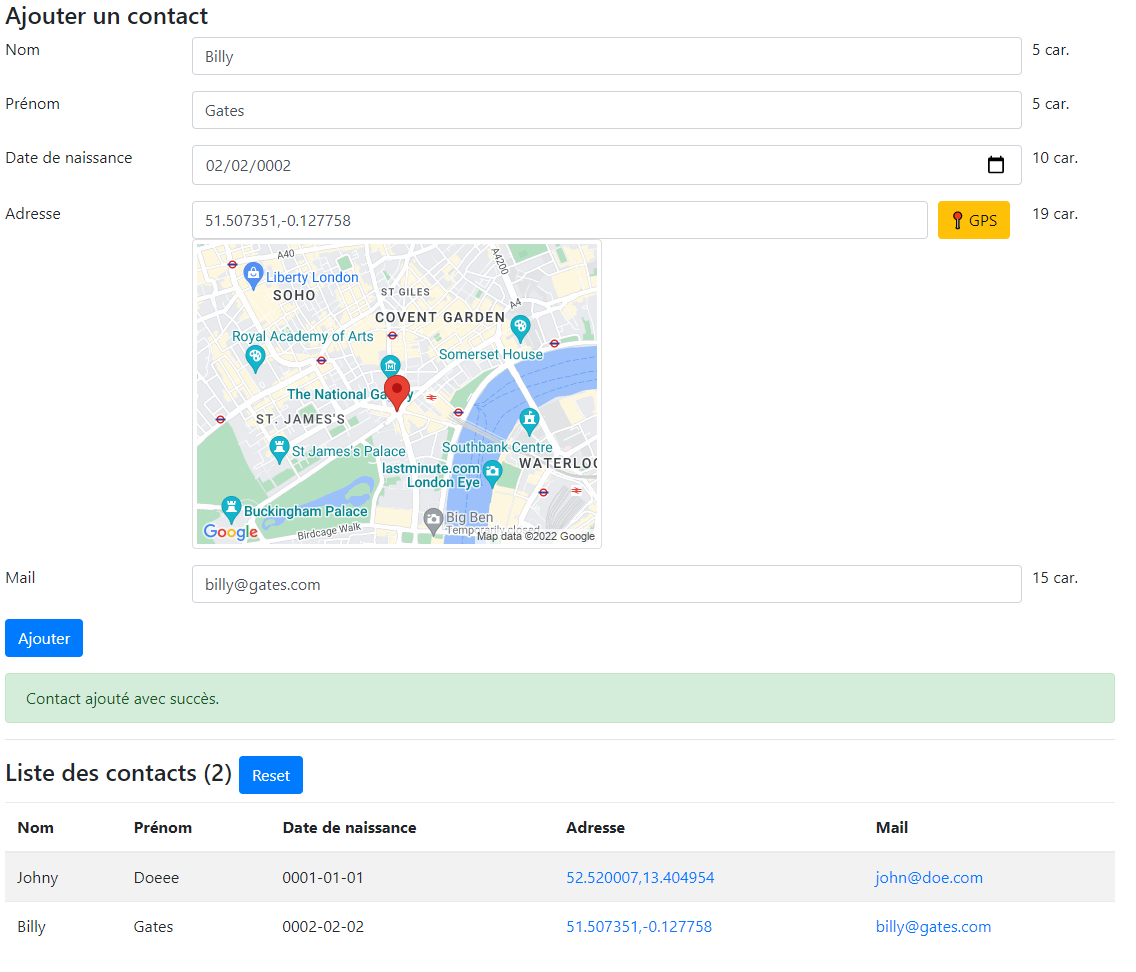
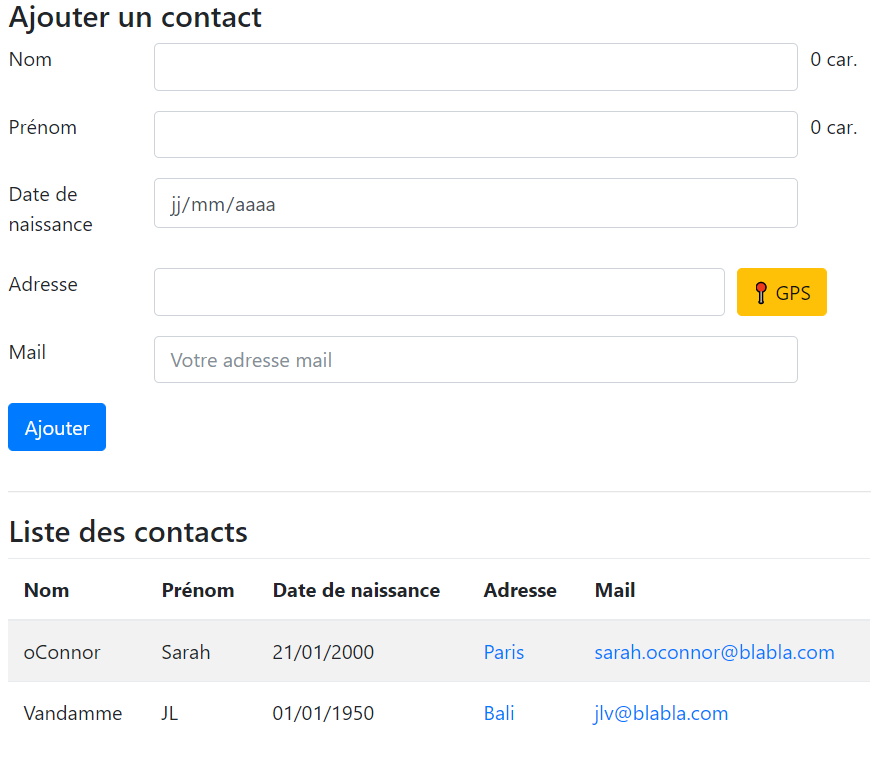
Add files via upload

diff --git a/tp4/index.html b/tp4/index.html
@@ -52,15 +52,15 @@
       <div class="row mb-3">
         <label for="Date" class="col-sm-2 col-form-label">Date de naissance</label>
         <div class="col-sm-10">
-          <input type="date" class="form-control" id="Date" placeholder="JJ/MM/AAAA" name="Date"/>
-            
+          <input type="date" class="form-control" id="Date" placeholder="JJ/MM/AAAA" name="Date"
+            />
         </div>
       </div>
       <div class="row mb-3">
-        <label for="Adresse" class="col-sm-2 col-form-label">Adresse </label>
+        <label for="Adresse" class="col-sm-2 col-form-label">Adresse</label>
         <div class="col-sm-10">
-          <input type="text" class="form-control" id="Adresse" placeholder="Entrez l'adresse" name="Adresse" onkeypress="calcNbChar(this.id)" />
-             
+          <input type="text" class="form-control" id="Adresse" placeholder="Entrez l'adresse" name="Adresse"
+             />
           <button type="button" class="btn btn-primary" id="button1" onclick="getLocation()">GPS</button>
           <div id="map"></div>
 
@@ -71,7 +71,7 @@
       <div class="row mb-3">
         <label for="email" class="col-sm-2 col-form-label">Email</label>
         <div class="col-sm-10">
-          <input type="email" class="form-control" id="email" name="email" onkeypress="calcNbChar(this.id)" />
+          <input type="email" class="form-control" id="email" name="email" />
         </div>
       </div>
       <button type="button" class=" btn btn-primary" onclick="test()"> Validez</button>

diff --git a/tp4/readme.md b/tp4/readme.md
@@ -21,19 +21,13 @@ Ajout de fonctionnalités HTML5 au formulaire
 
 # Table des matières
 
-- [Table des matières](#table-des-matières)
+ - [Table des matières](#table-des-matières)
   - [1. Objectif du TP](#1-objectif-du-tp)
   - [2. Plateforme de dév (idem que le TP3)](#2-plateforme-de-dév-idem-que-le-tp3)
   - [3. Geolocalisation HTML5](#3-geolocalisation-html5)
-    - [1. JavaScript **gps.js**](#1-javascript-gpsjs)
-    - [2. Ajouter un bouton à coté du champ de saisie de l’adresse](#2-ajouter-un-bouton-à-coté-du-champ-de-saisie-de-ladresse)
-    - [3. Mapping du bouton HTML et de la fonction javaScript](#3-mapping-du-bouton-html-et-de-la-fonction-javascript)
-    - [4. 💡 Simuler d'autres coordonées GPS depuis l'outil de dev. de Chrome](#4--simuler-dautres-coordonées-gps-depuis-loutil-de-dev-de-chrome)
   - [4. Afficher le nombre de caractère saisie](#4-afficher-le-nombre-de-caractère-saisie)
-  - [5. Ajouter le contact à un tableau JSON (store.js)](#5-ajouter-le-contact-à-un-tableau-json-storejs)
+  - [5. ajouter le contact à un tableau JSON (store.js)](#5-ajouter-le-contact-à-un-tableau-json-storejs)
   - [6. Afficher la liste des contacts dans un tableau HTML](#6-afficher-la-liste-des-contacts-dans-un-tableau-html)
-
-
 ## 1. Objectif du TP
 
 - HTML5: Commencer à utiliser les capacités avancées (géolocalisation)
@@ -79,9 +73,8 @@ Exemple avec une image centrée sur Paris: <a href="https://maps.googleapis.com/
 - L'API Géolocalisation HTML5 est utilisée pour obtenir la position géographique d'un utilisateur (si il utilise un navigateur récent)
 - Documentation et fonction JS de géolocalisation disponibles ici : https://www.w3schools.com/html/html5_geolocation.asp
 
-### 1. JavaScript **gps.js** 
+1. Dans un fichier **gps.js**, copier le code ci-dessous:
 
-Dans un fichier **gps.js**, copier le code ci-dessous:
 ```javascript
 // demande de la localisation à l'utilisateur
 function getLocation() {
@@ -124,29 +117,15 @@ function showError(error) {
 }
 ```
 
-### 2. Ajouter un bouton à coté du champ de saisie de l’adresse
+2. Ajouter un bouton à coté du champ de saisie de l’adresse
 
-### 3. Mapping du bouton HTML et de la fonction javaScript
-Dans votre script **form-validation.js** intercepter le click sur ce bouton et utiliser la fonction getLocation() pour demander la géolocalisation à l’utilisateur
+3. Dans votre script **form-validation.js** intercepter le click sur ce bouton et utiliser la fonction getLocation() pour demander la géolocalisation à l’utilisateur
 
 La géolocalisation vous donnera la **latitude** et la **longitude** de l’utilisateur.
 
 Afficher une image (dans le code JS ci-dessus ça s'affiche dans une DIV avec id="map") de Google Maps centrée sur ces coordonnées GPS (documentation de l’API google maps)
 
 URL de l’image : https://maps.googleapis.com/maps/api/staticmap?markers=latitude,longitude&zoom=14&size=400x300&scale=2&key=AIzaSyAkmvI9DazzG9p77IShsz_Di7-5Qn7zkcg
-
-
-### 4. 💡 Simuler d'autres coordonées GPS depuis l'outil de dev. de Chrome 
-Dans l'outil de developpement de Google Chrome, il est possible de surcharger la localisation de l'utilisateur. 
-
-Pour ce faire :
--  Aller dans l'outil de dévelopmment : touche **F12** ou **⁝**(Menu de Chrome)/**Plus d'outils**/**Outils de developpement**
--  Cliquez sur les "**...**", choisir **More Tools** puis **Sensors**
--  <img src="sensors.jpg" alt="sensors">
--  Vous aurez accés à l'onglet "Sensors", dans la section **Location**, vous pourrez choisir l'une des villes préselectionnée (par exemple **Mountain View**)
--  <img src="mountain.jpg" alt="mountain view">
--  Cliquez sur le bouton "GPS" de votre page web pour actualiser et vérifier les coordonnées lat/lon et l'image Google Maps de votre formulaire.
-
 
 ## 4. Afficher le nombre de caractère saisie
 
@@ -212,16 +191,14 @@ var prenom = localStorage.getItem("lastname");
 * Documentation : http://www.w3schools.com/html/html5_webstorage.asp
 -->
 
-## 5. Ajouter le contact à un tableau JSON (store.js)
+## 5. ajouter le contact à un tableau JSON (store.js)
 
 1. créer un fichier **store.js**
 
    - Ce script stockera le contact dans une liste JSON
-   - Cette liste sera sauvegardé dans une base de données local (localStorage https://developer.mozilla.org/fr/docs/Web/API/Window/localStorage)
    - Les méthodes disponibles seront:
      - Ajout d'un contact à la liste **contactStore.add(\_name, \_firsname, \_date, \_adress, \_mail);**
      - Listing des contacts **contactStore.getList();**
-     - Remise à zéro de la liste **contactStore.reset();**
 
 - Code à reprendre:
 
@@ -235,8 +212,7 @@ Pour récuper la liste:    contactStore.getList();
 */
 var contactStore = (function () {
   // variable privée
-  let contactListString = localStorage.getItem('contactList')
-  var contactList = contactListString ? JSON.parse(contactListString) : [];
+  var contactList = [];
 
   // Expose these functions via an interface while hiding
   // the implementation of the module within the function() block
@@ -252,16 +228,6 @@ var contactStore = (function () {
       };
       // ajout du contact à la liste
       contactList.push(contact);
-
-      // persistence de la liste dans une base de données local du navigateur web
-      // https://developer.mozilla.org/fr/docs/Web/API/Window/localStorage
-      localStorage.setItem('contactList', JSON.stringify(contactList));
-
-      return contactList;
-    },
-    reset: function () {
-     
-      localStorage.removeItem('contactList');
 
       return contactList;
     },
@@ -279,31 +245,25 @@ var contactStore = (function () {
 
 ![Texte alternatif](tp4.PNG "texte pour le titre, facultatif")
 
-- Créer une fonction pour afficher les contacts sous forme de tableau HTML:
+1. Si le formulaire est valide, ajouter toutes les informations au tableau "Liste de contacts"
+
+- Pour faire une boucle sur une liste JSON:
 
 ```js
-function displayContactList(){
-  const contactListString = localStorage.getItem('contactList'); // ici on va récupérer la liste en forme de chaine de caractère (string)
-  const contactList = contactListString ? JSON.parse(contactListString) : [];
-
-  for(const contact of contactList){
-document.querySelector("table tbody").innerHTML +=
-  `<tr>
-  <td>${contact.name}</td>
-  <td> ${contact.firstName} </td>
-  <!-- CODE à compléter pour insérer les autres données du contact -->
-  <tr>`;
+for (var index in contactList) {
+  console.log(contactList[index].name);
 }
 ```
 
-- Appeler la fonction displayContactList() au chargement de la page
-De cette façon, la liste des contacts (sauvegardé dans le localStore) sera affiché.
+- Exemple de code pour ajout un contact au tableau:
 
 ```js
-window.onload = function(){ 
-  displayContactList();
- };
+document.querySelector("table tbody").innerHTML =
+  document.querySelector("table tbody").innerHTML +
+  "<tr><td>" +
+  nom +
+  "</td><td>" +
+  prenom +
+  "</td><td>";
+// CODE à compléter pour insérer les autres données
 ```
-
-
-- à coté du bouton "Ajouter", ajouter un bouton supprimer qui va appeler la fonction ``
